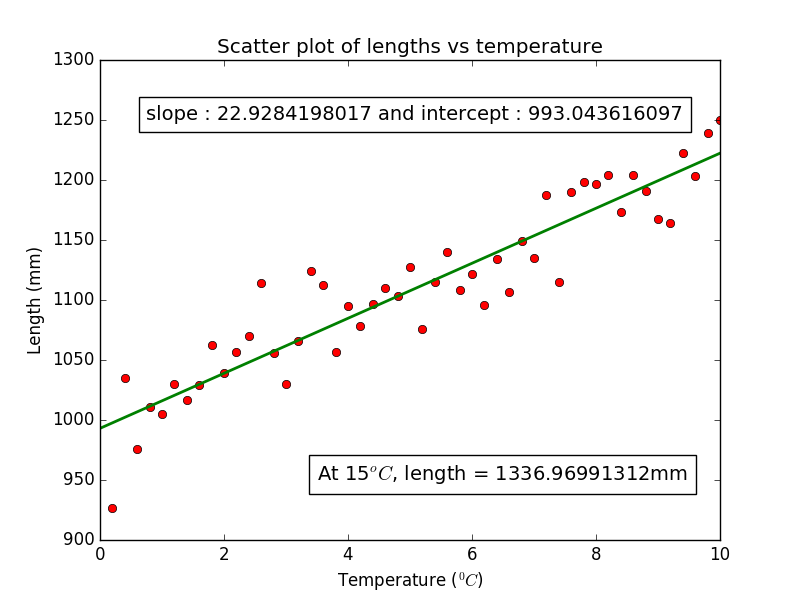
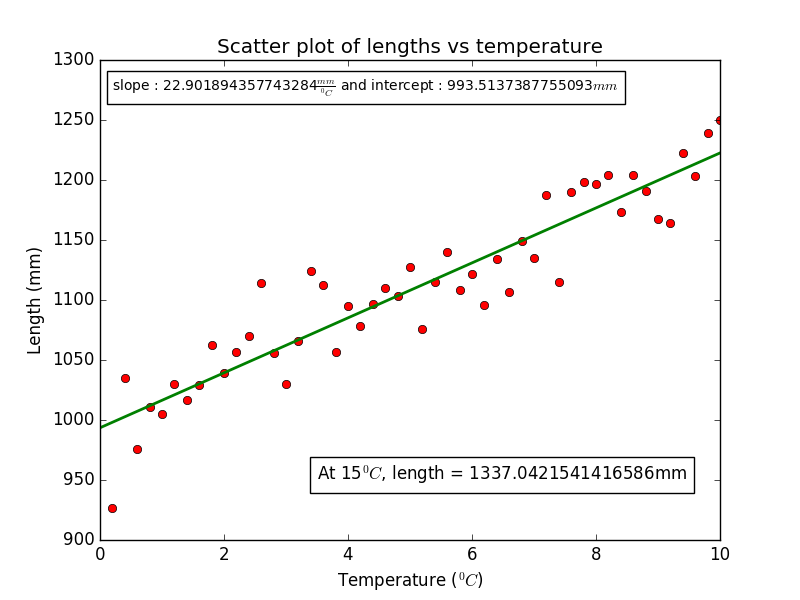
Add code for error in extrapolatedd length. Update image to reflect use of analytical method.

diff --git a/linear_expansion.py b/linear_expansion.py
@@ -1,5 +1,6 @@
 import numpy as np
 import matplotlib.pyplot as plt
+import math
 #import data from the file and store it in data
 #data is an array whose each element is 2-array
 data = np.genfromtxt('linearexpansion.csv', delimiter = ',')
@@ -10,6 +11,7 @@ num_of_data_pts = len(data)
 for point in range(num_of_data_pts):
     temps.append(float(data[point][0]))
     lengths.append(float(data[point][1]))
+'''
 #Finding the maximum and minimum values of length:
 #This will help in defining a range for m and c
 #Length = m(temp) + c
@@ -39,8 +41,8 @@ max_slope = (lengths[max_index] - lengths[min_index])/(temps[max_index] - temps[
 min_c = (temps[max_index]*lengths[min_index] - temps[min_index]*lengths[max_index])/(temps[max_index] - temps[min_index])
 #max_c will correspond to the y co-ordinate of the maximum point.
 max_c = lengths[max_index]
-M = np.linspace(0, max_slope, 500)
-C = np.linspace(min_c, max_c, 500)
+M = np.linspace(0, max_slope, 250)
+C = np.linspace(min_c, max_c, 250)
 m_best = 0.0
 c_best = 0.0
 #Initialising Least Square distance (LSq)to the worst possible condition
@@ -55,6 +57,22 @@ for m in M:
             m_best = m
             c_best = c
             LSq = lsq
+'''
+temp_sum = 0.0
+for temp in temps:
+    temp_sum = temp_sum + temp
+length_sum = 0.0
+for length in lengths:
+    length_sum = length_sum + length
+mean_temp = temp_sum/num_of_data_pts
+mean_length = length_sum/num_of_data_pts
+sum_ti_li = 0.0
+sum_ti2 = 0.0
+for i in range(num_of_data_pts):
+    sum_ti_li = sum_ti_li + temps[i]*lengths[i]
+    sum_ti2 = sum_ti2 + (temps[i]**2)
+m_best = (sum_ti_li - mean_temp*length_sum)/(sum_ti2 - num_of_data_pts*(mean_temp**2))
+c_best = mean_length - m_best*mean_temp
 
 plt.figure(1)
 plt.title("Scatter plot of lengths vs temperature")
@@ -62,12 +80,24 @@ plt.plot(temps, lengths, 'ro')
 plt.xlabel("Temperature ("+r"$^0C$)")
 plt.ylabel("Length (mm)")
 bbox_props1 =  dict(boxstyle = "square, pad=0.4", fc = "w", ec = 'k', lw = 1)
-plt.text(0.20, 1275, "slope : "+str(m_best)+r"$\frac{mm}{^0C}$"+" and intercept : "+str(c_best)+r"$mm$", size = 14, bbox = bbox_props1)
+plt.text(0.20, 1275, "slope : "+str(m_best)+r"$\frac{mm}{^0C}$"+" and intercept : "+str(c_best)+r"$mm$", size = 10, bbox = bbox_props1)
 plt.plot([0, 10], [c_best, (m_best*10 + c_best)], color = 'g', linewidth = 2.0)
 bbox_props2 =  dict(boxstyle = "square, pad=0.4", fc = "w", ec = 'k', lw = 1)
-plt.text(3.5, 950, "At 15"+r"$^0C$"+", length = "+str(15*m_best + c_best)+"mm", size = 14, bbox = bbox_props2)
+plt.text(3.5, 950, "At 15"+r"$^0C$"+", length = "+str(15*m_best + c_best)+"mm", size = 12, bbox = bbox_props2)
 print("Linear extrapolation upto 15"+"ºC"+" gives an expected length of "+str(15*m_best + c_best)+"mm")
 print("m is "+str(m_best))
 print("c is "+str(c_best))
-#Linear extrapolation upto 15$^oC$ gives an expected length of 1336.96991312mm
+#Linear extrapolation upto 15$^oC$ gives an expected length of 1337.0421541416586
+#Calculate single measurement error of lis:
+sigma_li2 = 0.0
+t_ext = 15 #degree C
+#First we technically calculate sum of squares of deviations from sample mean
+for length in lengths:
+    sigma_li2 = sigma_li2 + ((length - mean_length)**2)
+sigma_li2 = sigma_li2/(num_of_data_pts-2)
+sigma2_y_ext = sigma_li2*((1.0/num_of_data_pts)+((mean_temp**2)+(t_ext**2))/(sum_ti2 - num_of_data_pts*(mean_temp**2)))
+sigma_y_ext = math.sqrt(sigma2_y_ext)
+sigma_li = math.sqrt(sigma_li2)
+print("Error in li is " + str(sigma_li)+" mm"+"\n")
+print("Error in Length at 15ºC is "+str(sigma_y_ext)+" mm")
 plt.show()
